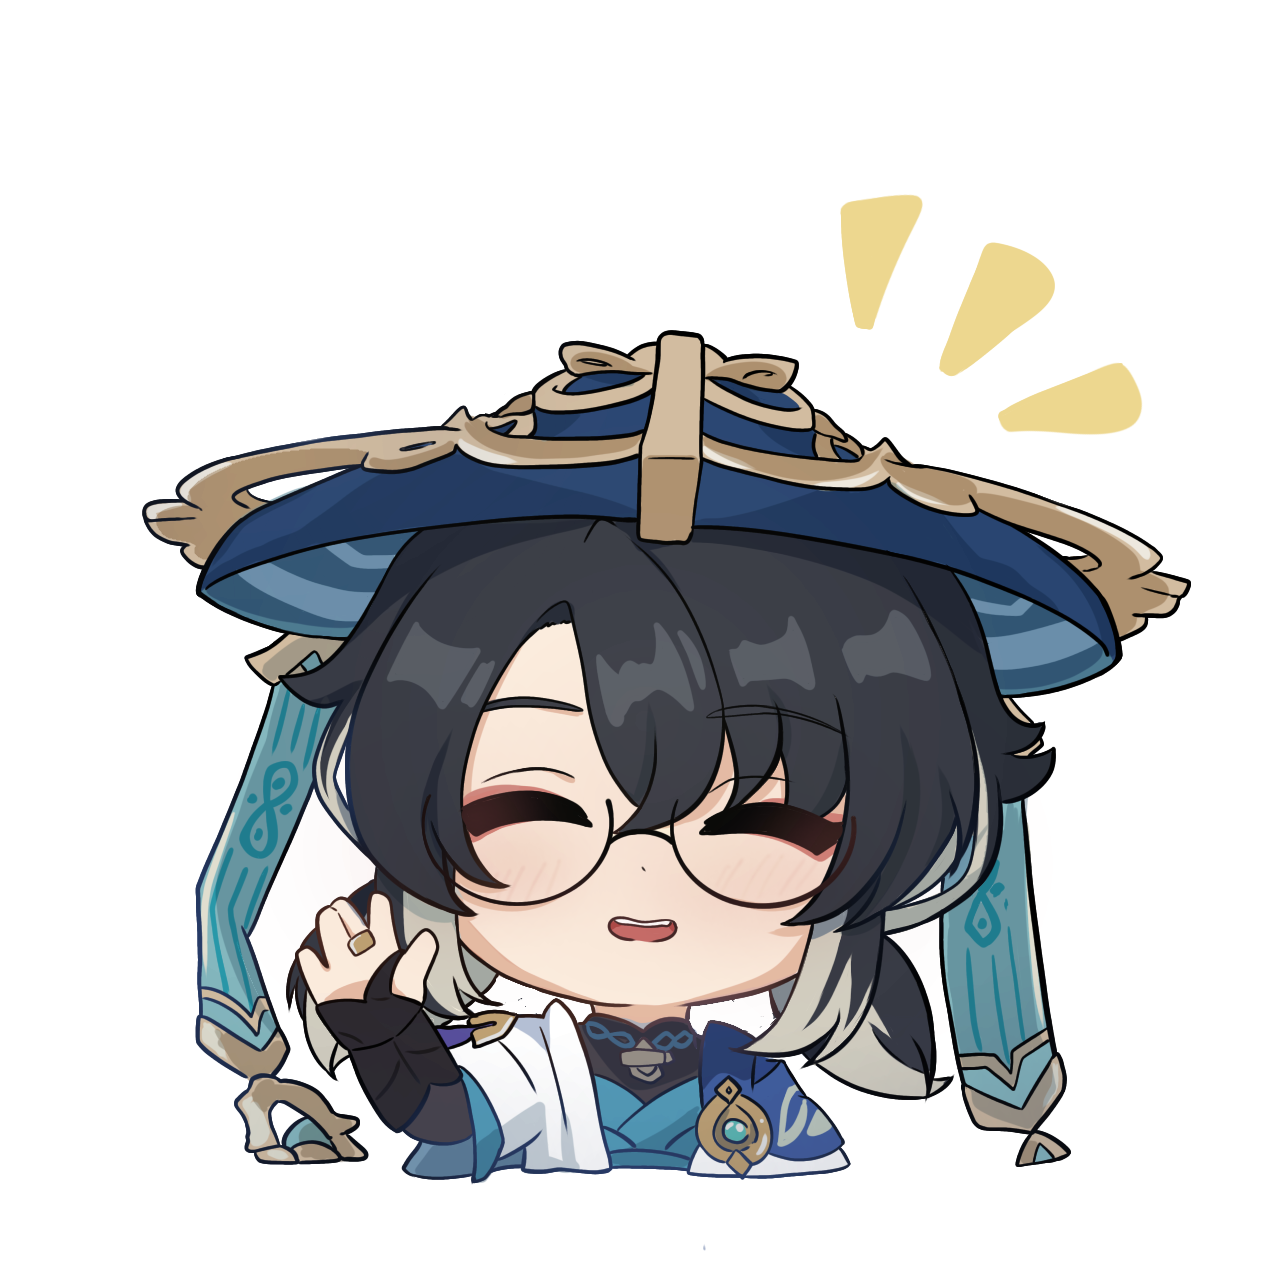
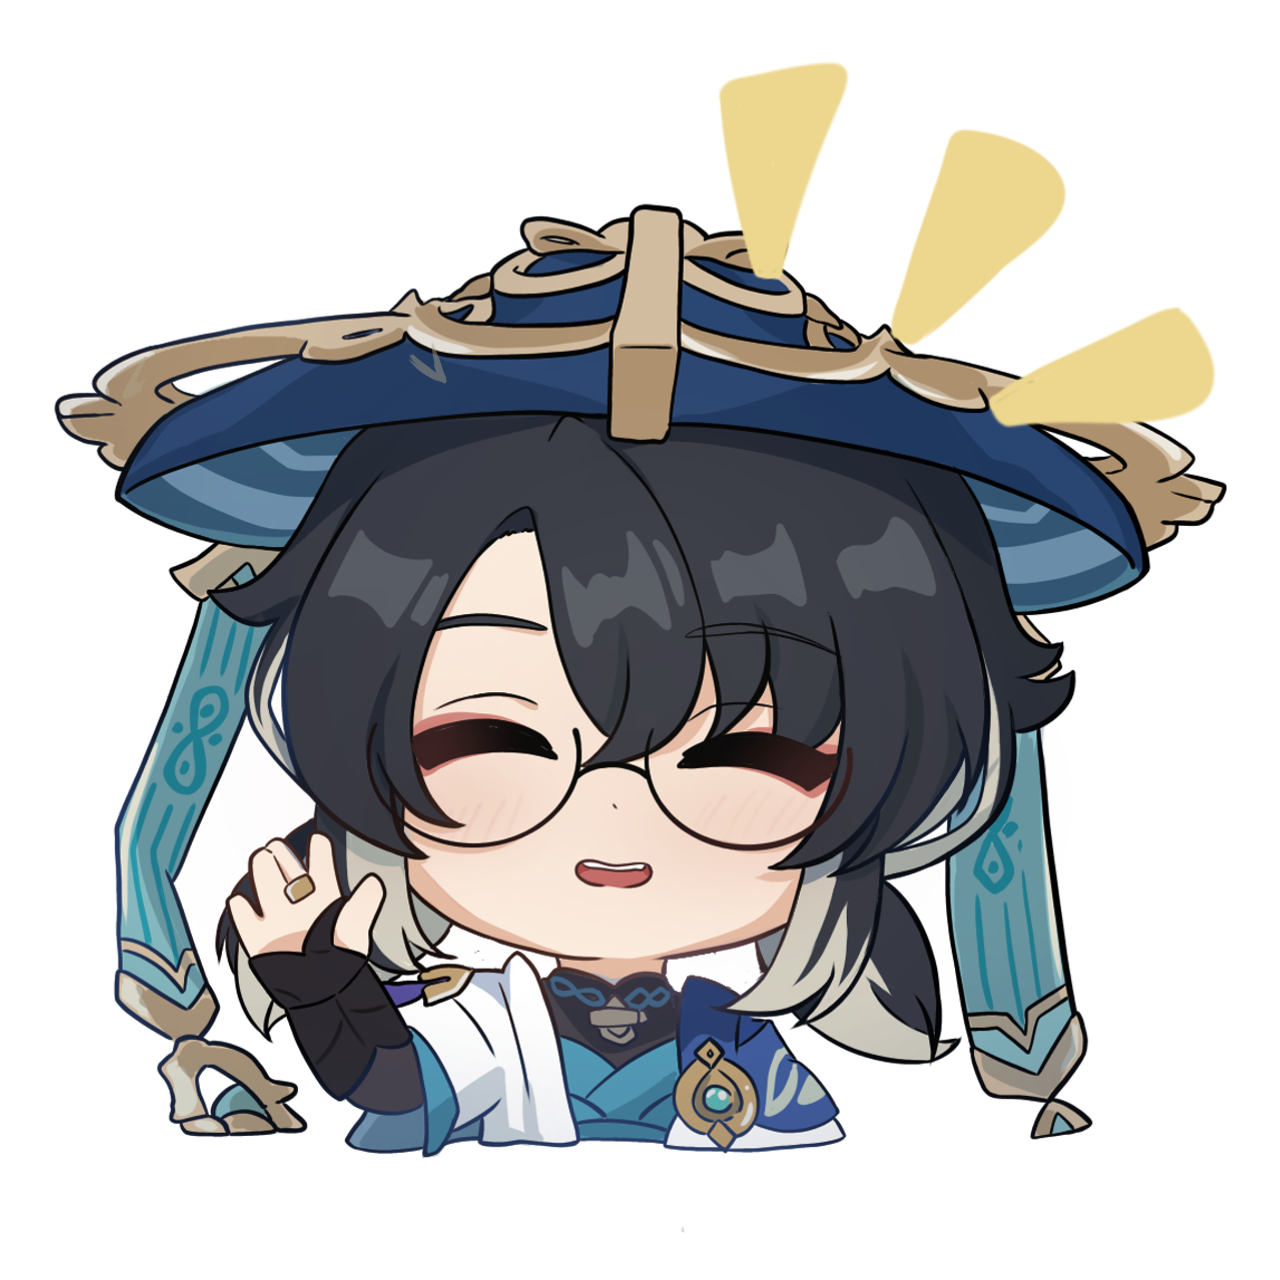
update

diff --git a/journal/styles.css b/journal/styles.css
@@ -330,13 +330,13 @@ footer a:hover::before {
 
     #one, #two, #three {
         position: relative;
-        padding-bottom: 100px;        
+        padding-bottom: 110px;        
         border-bottom: solid 3px rgb(164, 192, 212);
         margin-bottom: 28px;
     }
 
-    #two, #three {
-        padding-bottom: 130px;
+    #two {
+        padding-bottom: 150px;
     }
 
     div article {
@@ -350,19 +350,19 @@ footer a:hover::before {
 
     .icon-wave {
         position: absolute;
-        top: 52%;
+        top: 58%;
         left: 85%;
     }
 
     .icon-greet {
         position: absolute;
-        top: 63%;
-        left: 13%;
+        top: 62%;
+        left: 15%;
     }
 
     .icon-proud {
         position: absolute;
-        top: 58%;
+        top: 55%;
         left: 85%;
     }
 

diff --git a/journal/index.html b/journal/index.html
@@ -55,7 +55,7 @@
 
                 <div class="pointer"></div>
                 <div class="icon">
-                    <img class="icon-wave" src="images/icon-wave.png" alt="icon" width="355" height="355">
+                    <img class="icon-wave" src="images/icon-wave.png" alt="icon" width="315" height="315">
                 </div>
             </div>
             
@@ -107,7 +107,7 @@
 
                 <div class="pointer"></div>
                 <div class="icon">
-                    <img class="icon-proud" src="images/icon-proud.png" alt="icon" width="315" height="315">
+                    <img class="icon-proud" src="images/icon-proud.png" alt="icon" width="325" height="325">
                 </div>
             </div>
         </main>
